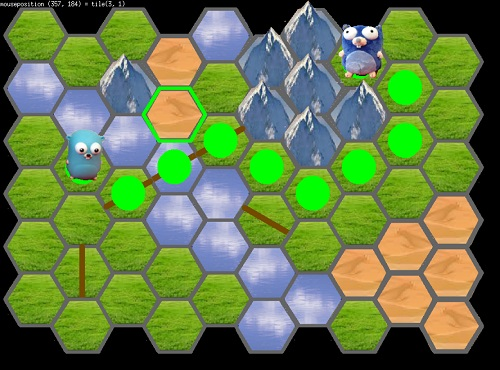
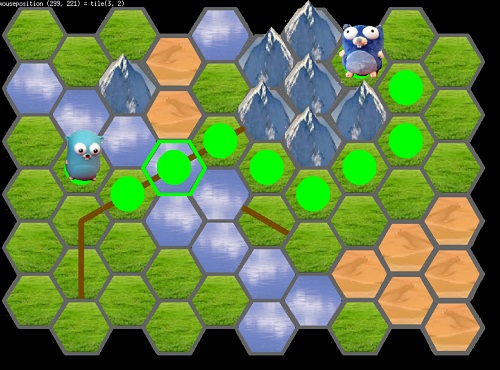
Add files via upload

diff --git a/main.go b/main.go
@@ -30,7 +30,8 @@ const (
 	terrainDesert    = 3
 	terrainRoad1     = 4
 	terrainRoad2     = 5
-	NumberOfTerrains = 6
+	terrainRoad3	 = 6
+	NumberOfTerrains = 7
 )
 
 var ngrid [][]*ANode
@@ -38,7 +39,8 @@ var path *Stack[*ANode]
 var vstart, vend Vector2
 
 var terrainimages []*ebiten.Image
-var terrainimagenames [16]string
+//var terrainimagenames [16]string
+var terrains [16]Terrain
 var spriteimages []*ebiten.Image
 var spriteimagenames [16]string
 
@@ -63,7 +65,7 @@ var terrainmap1 = [rows][columns]int{
 	{0, 0, 0, 0, 0, 0, 0, 0, 0, 0},
 	{0, 0, 0, 0, 0, 0, 0, 0, 0, 0},
 	{0, 0, 0, 5, 5, 0, 0, 0, 0, 0},
-	{0, 0, 5, 0, 0, 5, 0, 0, 0, 0},
+	{0, 6, 5, 0, 0, 5, 0, 0, 0, 0},
 	{0, 4, 0, 0, 0, 0, 0, 0, 0, 0},
 	{0, 0, 0, 0, 0, 0, 0, 0, 0, 0},
 }
@@ -77,7 +79,7 @@ var flip1 = [rows][columns]int{ // flipx=1, flipy=2, both=3
 }
 
 func init() {
-
+	/*
 	terrainimagenames[0] = "grass.png"
 	terrainimagenames[1] = "water.png"
 	terrainimagenames[2] = "mountain.png"
@@ -87,11 +89,62 @@ func init() {
 	terrainimagenames[6] = "companygreen.png"
 	terrainimagenames[7] = "companyred.png"
 	terrainimagenames[8] = "pathfinder.png"
+	*/
+	
+	terrains[0].name="Grass"
+	terrains[0].filename = "grass.png"
+	terrains[0].walkable = true
+
+	terrains[1].name="Water"
+	terrains[1].filename = "water.png"
+	terrains[1].walkable = false
+
+	terrains[2].name="Mountain"
+	terrains[2].filename = "mountain.png"
+	terrains[2].walkable = false
+
+	terrains[3].name="desert"
+	terrains[3].filename = "desert.png"
+	terrains[3].walkable = true
+
+	terrains[4].name="Road1"
+	terrains[4].filename = "road1.png"
+	terrains[4].walkable = true
+
+	terrains[5].name="Road2"
+	terrains[5].filename = "road2.png"
+	terrains[5].walkable = true
+
+	terrains[6].name="Road3"
+	terrains[6].filename = "road3.png"
+	terrains[6].walkable = true
+
+	terrains[7].name="Selection"
+	terrains[7].filename = "selection.png"
+	terrains[7].walkable = true
+
+	terrains[8].name="Pathfinder"
+	terrains[8].filename = "pathfinder.png"
+	terrains[8].walkable = true
+
+	/*
+	terrains[0].name="Grass"
+	terrains[0].filename = "water.png"
+	terrains[0].filename = "mountain.png"
+	terrains[0].filename = "desert.png"
+	terrains[0].filename = "road1.png"
+	terrains[0].filename = "road2.png"
+	terrains[0].filename = "companygreen.png"
+	terrains[0].filename = "companyred.png"
+	terrains[0].filename = "pathfinder.png"
+	*/
+
 	for i := 0; i < 9; i++ {
 		var err error
 		var tmpimage *ebiten.Image
 		var tmpstring string
-		tmpstring = "resources/terrain/" + terrainimagenames[i]
+		//tmpstring = "resources/terrain/" + terrainimagenames[i]
+		tmpstring = "resources/terrain/" + terrains[i].filename
 		tmpimage, _, err = ebitenutil.NewImageFromFile(tmpstring)
 		if err != nil {
 			log.Fatal(err)
@@ -178,6 +231,12 @@ type cube struct {
 type Orientation struct {
 	f0, f1, f2, f3 float64
 	b0, b1, b2, b3 float64
+}
+
+type Terrain struct {
+	name string
+	filename string
+	walkable bool
 }
 
 type Sprite struct {
@@ -724,6 +783,7 @@ func (g *Game) Draw(screen *ebiten.Image) {
 	}
 	screen.DrawImage(terrainimages[8], op)
 
+
 	var p point
 	var hx hex
 
@@ -737,7 +797,7 @@ func (g *Game) Draw(screen *ebiten.Image) {
 	if hx.q%2 != 0 {
 		op.GeoM.Translate(0, float64(tilesizey/2))
 	}
-	screen.DrawImage(terrainimages[6], op)
+	screen.DrawImage(terrainimages[7], op)
 
 	//w, h := ebitenImage.Bounds().Dx(), ebitenImage.Bounds().Dy()
 	var w, h int
